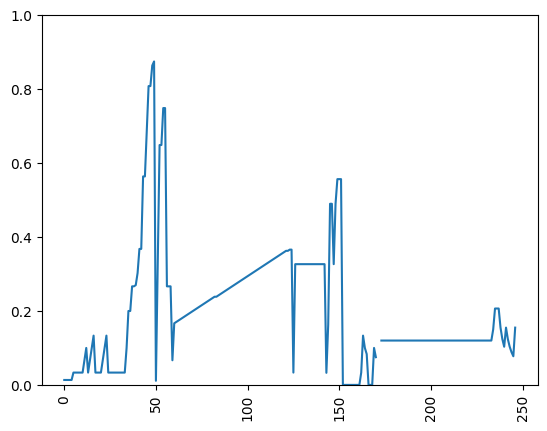
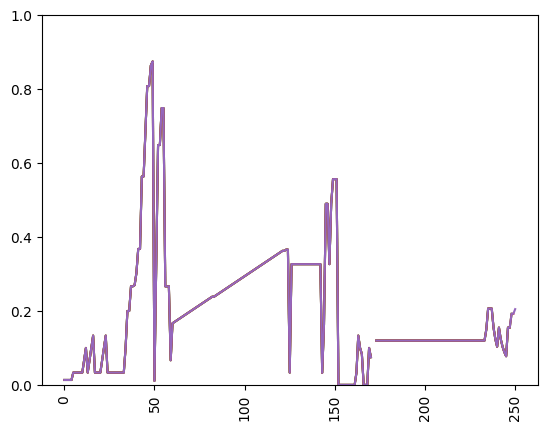
pre_endless_V

diff --git a/src/smart_can/ManageUnits.py b/src/smart_can/ManageUnits.py
@@ -63,17 +63,11 @@ class MainControlUnit(Sensors):
     def check_fill_status(self, id) -> None:
         return self._objects[id][3]
         
-    def new_charts(self, _logger):
+    def average_fill(self, _logger):
         try:
             cursor = _logger.read_data('fillment')
             time = []
             avg_fill = []
-
-            if self.os == 'win32' or self.os == 'cygwin':
-                path = self.path + "\static\images"
-            else:
-                path = self.path + "/static/images"
-
             for item in cursor:
                 time.append(item['timestamp'])
                 counter = 0
@@ -84,14 +78,54 @@ class MainControlUnit(Sensors):
                     counter += 1
 
                 avg_fill.append(np.average(f))
+            print('IT"SOKEY')
+            print(time)
+            print(avg_fill)
+            return time, avg_fill
+
+        except Exception:
+            
+            raise f'np error'
+    
+    def new_chart(self, _logger):
+        try:
+            time, avg_fill = self.average_fill(_logger)
+
+            if self.os == 'win32' or self.os == 'cygwin':
+                path = self.path + "\static\images"
+            else:
+                path = self.path + "/static/images"
+
 
             x = np.arange(0, len(time)).reshape((-1, 1))
             y = np.array(avg_fill)
+            y = np.nan_to_num(y)
             
+
             plt.plot(x, y)
             plt.xticks(rotation=90)
             plt.ylim(0, 1)
             plt.savefig(path + "/source.png", bbox_inches='tight')
+
+            print("Графики построенны")
+        
+        except Exception:
+            
+            return f'Графики не удалось построить по причине: {Exception}'
+
+    def new_prediction(self, _logger):
+        try:
+            time, avg_fill = self.average_fill(_logger)
+
+            print("IT'S PREDICTION")
+
+            y = np.array(avg_fill)
+            y = np.nan_to_num(y)
+
+            if self.os == 'win32' or self.os == 'cygwin':
+                path = self.path + "\static\images"
+            else:
+                path = self.path + "/static/images"
 
             model = LinearRegression().fit(x, y)
             x = np.arange(len(time), len(time) * 2).reshape((-1, 1))
@@ -99,9 +133,7 @@ class MainControlUnit(Sensors):
             plt.plot(x, y_pred)
             plt.xticks(rotation=90)
             plt.savefig(path + "/predict.png", bbox_inches='tight')
-
             return "Графики построенны"
-        
+    
         except Exception:
-
             return f'Графики не удалось построить по причине: {Exception}'

diff --git a/src/tests/tests.py b/src/tests/tests.py
@@ -6,15 +6,7 @@ from logger import Logger
 
 _logger = Logger('Log')
 Panel = MainControlUnit(1, "bottles")
-
 sensors = _logger.get_all_sensors()
-
 Panel.load_sensors(sensors)
-
-print(Panel._objects)
-for i in Panel.get_objects():
-    print(i)
-    sensor = Panel.get_object(i)
-    print(sensor)
-    persent = round(sensor[3] * 100 ) if sensor[3] > 0 else 0
-    print(persent)
+Panel.new_chart(_logger)
+Panel.new_prediction(_logger)
